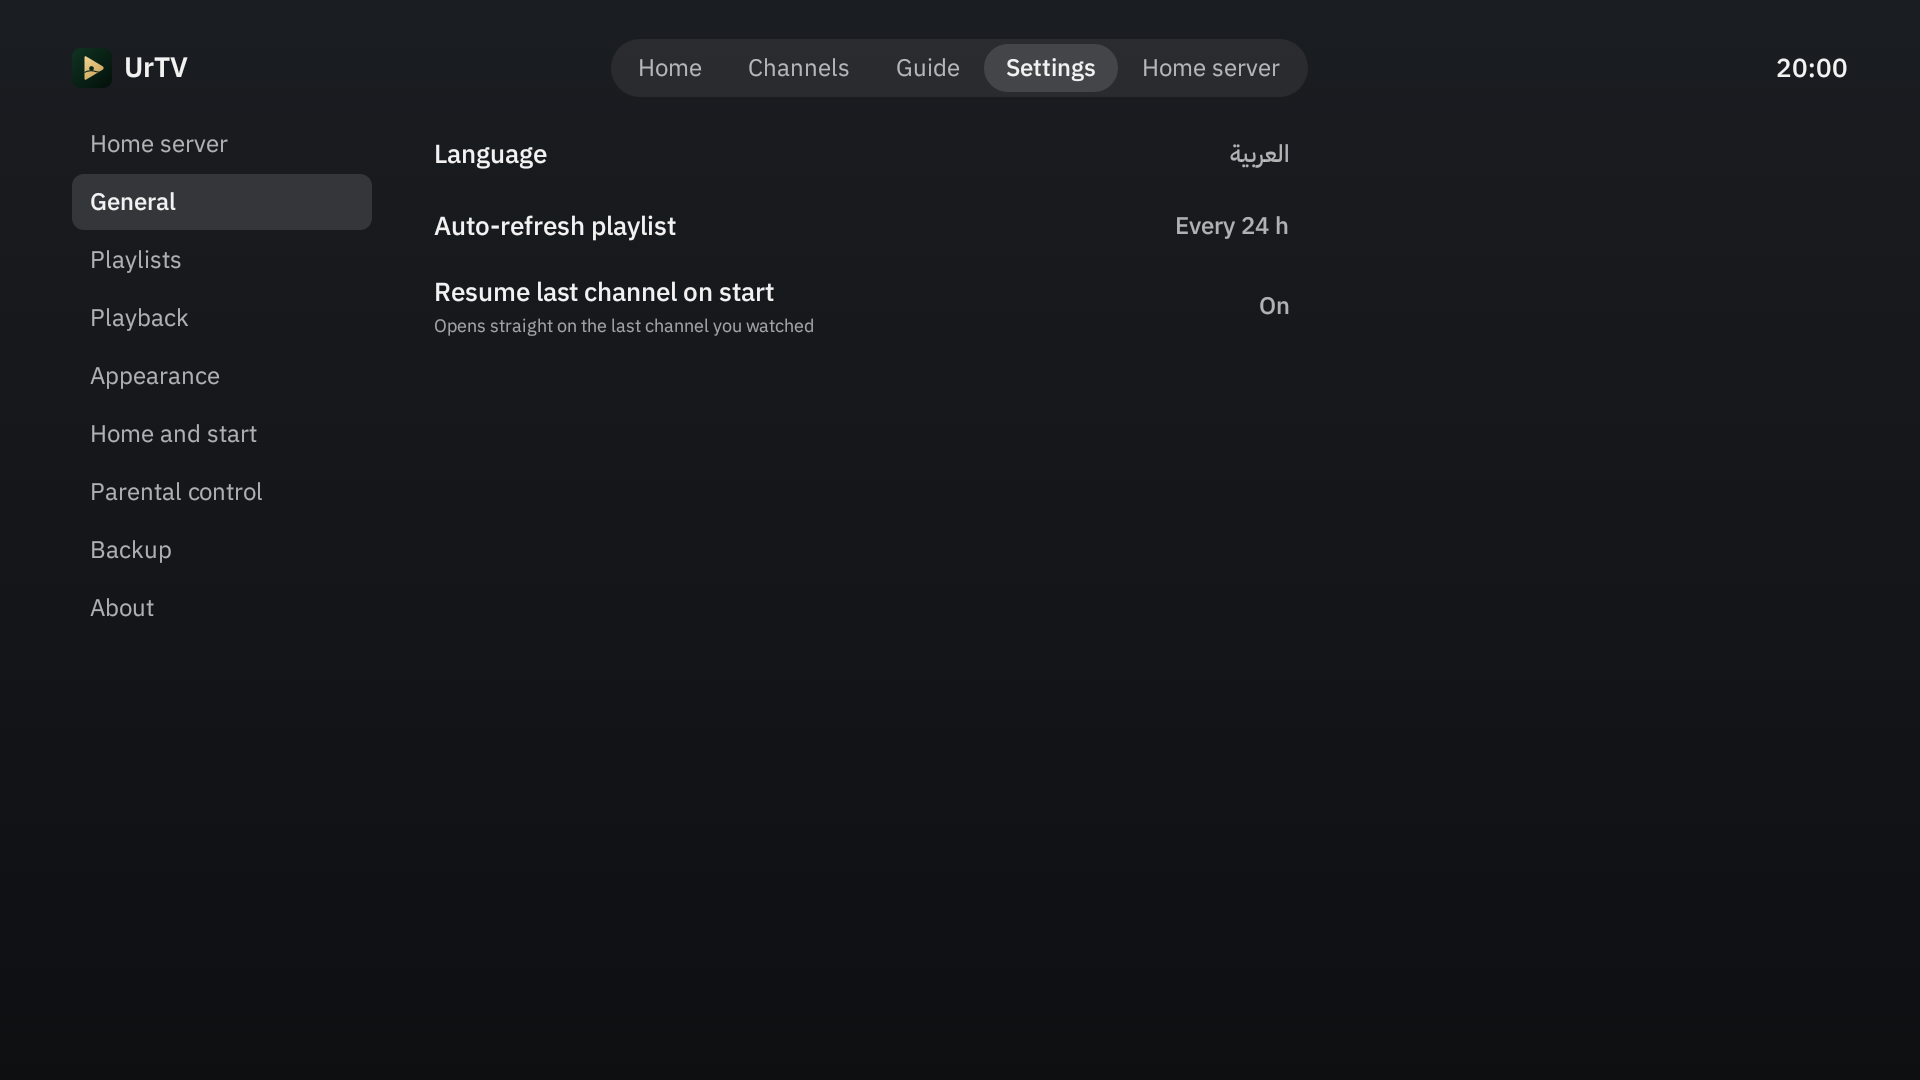
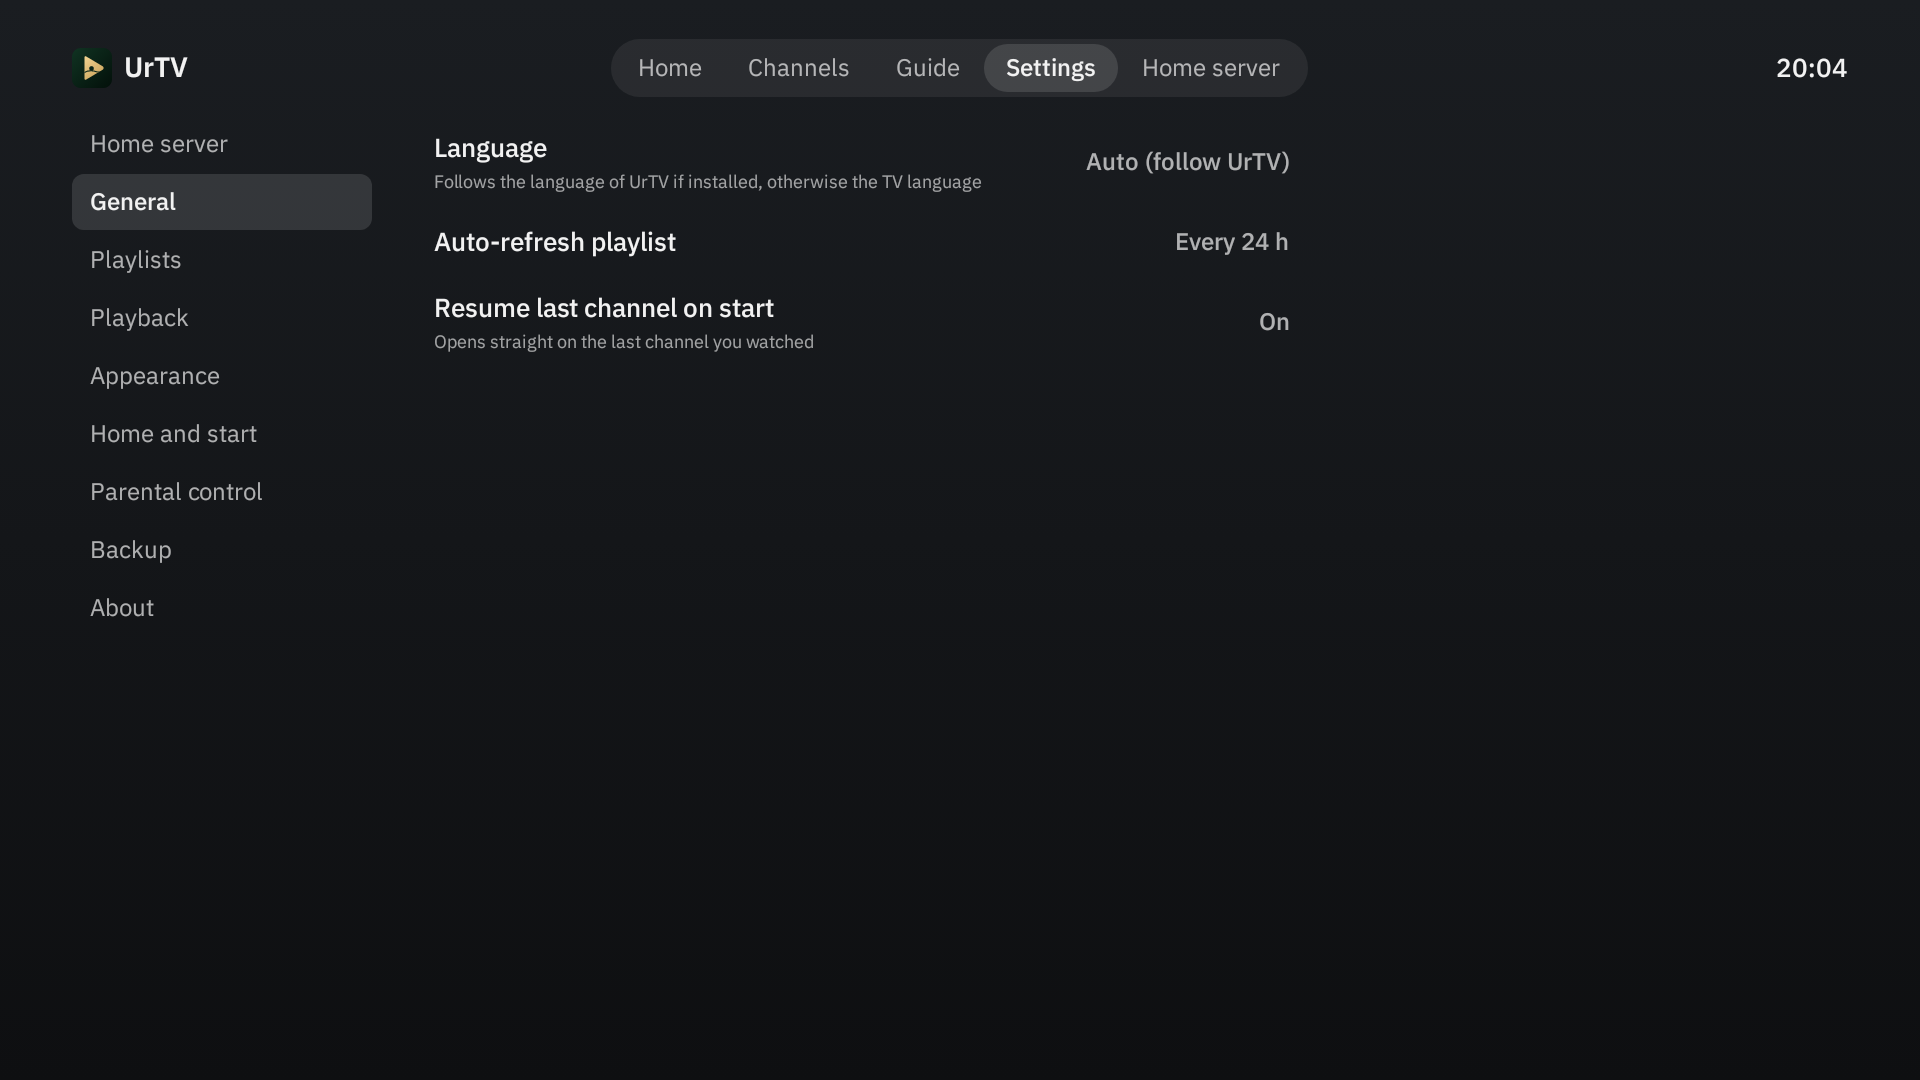
Language: Auto (follow UrTV via read-only provider, else TV language) / Arabic / English, manual always wins, re-check on resume, tests

diff --git a/app/src/main/kotlin/com/urtv/player/data/Store.kt b/app/src/main/kotlin/com/urtv/player/data/Store.kt
@@ -28,7 +28,7 @@ class Store(ctx: Context) {
     val lockedGroups: StateFlow<Set<String>> = _locked
     private val _active = MutableStateFlow(sp.getString("active", null))
     val activeId: StateFlow<String?> = _active
-    private val _lang = MutableStateFlow(sp.getString("lang", "ar")!!)
+    private val _lang = MutableStateFlow(sp.getString("lang", Language.AUTO)!!)
     val lang: StateFlow<String> = _lang
     private val _refreshH = MutableStateFlow(sp.getInt("refreshH", 24))
     val refreshHours: StateFlow<Int> = _refreshH
@@ -229,7 +229,7 @@ class Store(ctx: Context) {
         map("epgOff")?.forEach { (k, v) -> (v as? JsonPrimitive)?.intOrNull?.let { n -> val c = n.coerceIn(-720, 720); _offsets.value = _offsets.value + (k to c); e.putInt("epgoff_$k", c) } }
         map("lists")?.let { m -> saveListsMap(m.associate { (k, v) -> k to ((v as? JsonArray)?.mapNotNull { (it as? JsonPrimitive)?.content }?.take(5000)?.toSet() ?: emptySet()) }) }
         (o["start"] as? JsonPrimitive)?.content?.takeIf { it in setOf("home", "live", "guide", "movies", "series", "last") }?.let { _start.value = it; e.putString("start", it) }
-        (o["lang"] as? JsonPrimitive)?.content?.takeIf { it == "ar" || it == "en" }?.let { _lang.value = it; e.putString("lang", it) }
+        (o["lang"] as? JsonPrimitive)?.content?.takeIf { it == "ar" || it == "en" || it == Language.AUTO }?.let { e.apply(); setLang(it) }
         (o["refreshH"] as? JsonPrimitive)?.intOrNull?.takeIf { it in 0..168 }?.let { _refreshH.value = it; e.putInt("refreshH", it) }
         (o["buffer"] as? JsonPrimitive)?.content?.let { n -> BufferMode.entries.firstOrNull { it.name == n }?.let { _buffer.value = it; e.putString("buffer", it.name) } }
         (o["preview"] as? JsonPrimitive)?.booleanOrNull?.let { _preview.value = it; e.putBoolean("preview", it) }
@@ -247,11 +247,26 @@ class Store(ctx: Context) {
     }
 
     // ---- settings
-    fun setLang(v: String) { _lang.value = v; sp.edit().putString("lang", v).apply() }
+    /** Sets the choice (auto, ar, en) and the language to apply now; returns the language that will be used. */
+    fun setLang(v: String): String {
+        val c = if (v == "ar" || v == "en") v else Language.AUTO
+        _lang.value = c
+        val r = Language.resolve(c, sp.getString("urtvLang", null), Language.systemLanguage())
+        sp.edit().putString("lang", c).putString("resolvedLang", r).apply(); return r
+    }
+    /** The language the UI is shown in right now (read synchronously at activity start). */
+    fun resolvedLang(): String = sp.getString("resolvedLang", null) ?: Language.resolve(sp.getString("lang", Language.AUTO)!!, sp.getString("urtvLang", null), Language.systemLanguage())
+    /** Called when UrTV's language (or null: not installed) was read. Returns true when the UI language changed and the screen must be recreated. */
+    fun onUrtvLanguage(urtv: String?): Boolean {
+        sp.edit().apply { if (urtv == null) remove("urtvLang") else putString("urtvLang", urtv) }.apply()
+        val r = Language.resolve(_lang.value, urtv, Language.systemLanguage())
+        val changed = r != resolvedLang()
+        if (changed) sp.edit().putString("resolvedLang", r).apply()
+        return changed
+    }
     fun setRefreshHours(v: Int) { _refreshH.value = v; sp.edit().putInt("refreshH", v).apply() }
     fun setBuffer(v: BufferMode) { _buffer.value = v; sp.edit().putString("buffer", v.name).apply() }
     fun setResume(v: Boolean) { _resume.value = v; sp.edit().putBoolean("resume", v).apply() }
-    fun langNow(): String = sp.getString("lang", "ar")!!
 
     // ---- parental PIN: PBKDF2-HMAC-SHA256 with a random salt (the PIN is never stored) + lockout after repeated mistakes
     private fun hash(pin: String, salt: String): String {

diff --git a/app/src/main/kotlin/com/urtv/player/data/Language.kt b/app/src/main/kotlin/com/urtv/player/data/Language.kt
@@ -1,0 +1,32 @@
+package com.urtv.player.data
+
+import android.content.Context
+import android.net.Uri
+
+/**
+ * UI language policy. Choices: "auto" (follow the UrTV home app, else the TV's language), "ar", "en".
+ * A manual choice always wins. Pure decision logic lives in [resolve] (unit-tested).
+ */
+object Language {
+    const val AUTO = "auto"
+    /** UrTV exposes its language read-only through this provider (no permission needed, language only). */
+    const val URTV_URI = "content://sa.urtv.home.language/language"
+
+    fun resolve(choice: String, urtv: String?, system: String): String = when {
+        choice == "ar" || choice == "en" -> choice
+        urtv == "ar" || urtv == "en" -> urtv
+        system == "en" -> "en"
+        else -> "ar"                         // Arabic first: any other system language gets Arabic
+    }
+
+    fun next(choice: String) = when (choice) { AUTO -> "ar"; "ar" -> "en"; else -> AUTO }
+
+    fun normalize(raw: String?): String? = raw?.trim()?.lowercase()?.take(2)?.takeIf { it == "ar" || it == "en" }
+
+    fun systemLanguage(): String = android.content.res.Resources.getSystem().configuration.locales.let { if (it.isEmpty) "ar" else it[0].language }
+
+    /** UrTV's language if the UrTV home app is installed and exposes it; otherwise null. Call off the main thread. */
+    fun readUrtv(ctx: Context): String? = runCatching {
+        ctx.contentResolver.query(Uri.parse(URTV_URI), arrayOf("language"), null, null, null)?.use { c -> if (c.moveToFirst()) normalize(c.getString(0)) else null }
+    }.getOrNull()
+}

diff --git a/app/src/main/kotlin/com/urtv/player/MainActivity.kt b/app/src/main/kotlin/com/urtv/player/MainActivity.kt
@@ -15,11 +15,19 @@ import java.util.Locale
 
 class MainActivity : ComponentActivity() {
     override fun attachBaseContext(base: Context) {
-        val lang = base.getSharedPreferences("urtv", MODE_PRIVATE).getString("lang", "ar") ?: "ar"
+        val sp = base.getSharedPreferences("urtv", MODE_PRIVATE)
+        val lang = sp.getString("resolvedLang", null) ?: com.urtv.player.data.Language.resolve(sp.getString("lang", com.urtv.player.data.Language.AUTO) ?: "auto", sp.getString("urtvLang", null), com.urtv.player.data.Language.systemLanguage())
         val loc = Locale.forLanguageTag("$lang-u-nu-latn")   // Western digits in Arabic: clearer for channel numbers and times
         Locale.setDefault(loc)
         val cfg = Configuration(base.resources.configuration).apply { setLocale(loc); setLayoutDirection(loc) }
         super.attachBaseContext(base.createConfigurationContext(cfg))
+    }
+
+    override fun onResume() {
+        super.onResume()
+        // Auto language follows UrTV: re-check whenever we come back to the foreground (off the main thread).
+        val app = application as UrtvApp
+        Thread({ val u = com.urtv.player.data.Language.readUrtv(applicationContext); if (app.store.onUrtvLanguage(u)) runOnUiThread { recreate() } }, "lang-check").start()
     }
 
     override fun onCreate(savedInstanceState: Bundle?) {

diff --git a/app/src/main/kotlin/com/urtv/player/ui/Settings.kt b/app/src/main/kotlin/com/urtv/player/ui/Settings.kt
@@ -83,7 +83,7 @@ fun SettingsScreen(app: UrtvApp, onAdd: () -> Unit, onLanguage: () -> Unit, onMa
             when (section) {
                 Section.Server -> serverSettings(app, onAddServer) { removeServer = it }
                 Section.General -> {
-                    item { Setting(stringResource(R.string.set_language), if (lang == "ar") "العربية" else "English") { store.setLang(if (lang == "ar") "en" else "ar"); onLanguage() } }
+                    item { Setting(stringResource(R.string.set_language), when (lang) { "ar" -> "العربية"; "en" -> "English"; else -> stringResource(R.string.lang_auto) }, stringResource(R.string.set_language_hint)) { store.setLang(com.urtv.player.data.Language.next(lang)); onLanguage() } }
                     if (!homeOnly) item { Setting(stringResource(R.string.set_refresh), if (refresh == 0) stringResource(R.string.manual) else stringResource(R.string.every_hours, refresh)) { store.setRefreshHours(REFRESH[(REFRESH.indexOf(refresh) + 1) % REFRESH.size]) } }
                     if (!homeOnly) item { Setting(stringResource(R.string.set_resume), stringResource(if (resume) R.string.on else R.string.off), stringResource(R.string.set_resume_hint)) { store.setResume(!resume) } }
                 }

diff --git a/app/src/test/kotlin/com/urtv/player/LogicTest.kt b/app/src/test/kotlin/com/urtv/player/LogicTest.kt
@@ -71,3 +71,21 @@ class WatchItemTest {
         assertEquals(0f, w.copy(durMs = 0).fraction)
     }
 }
+
+class LanguageTest {
+    private val r = com.urtv.player.data.Language::resolve
+    @Test fun manualChoiceAlwaysWins() {
+        assertEquals("en", r("en", "ar", "ar")); assertEquals("ar", r("ar", "en", "en"))
+    }
+    @Test fun autoFollowsUrtvThenSystemThenArabic() {
+        assertEquals("en", r("auto", "en", "ar")); assertEquals("ar", r("auto", "ar", "en"))
+        assertEquals("en", r("auto", null, "en"), "UrTV not installed: system language")
+        assertEquals("ar", r("auto", null, "ar")); assertEquals("ar", r("auto", null, "fr"), "Arabic first for anything else")
+        assertEquals("en", r("auto", "xx", "en"), "an unknown value from the provider is ignored")
+    }
+    @Test fun cycleAndNormalise() {
+        val l = com.urtv.player.data.Language
+        assertEquals(listOf("ar", "en", "auto"), listOf(l.next("auto"), l.next("ar"), l.next("en")))
+        assertEquals("ar", l.normalize(" AR-SA ")); assertEquals("en", l.normalize("en")); assertEquals(null, l.normalize("fr")); assertEquals(null, l.normalize(null))
+    }
+}

diff --git a/app/src/test/kotlin/com/urtv/player/BackupTest.kt b/app/src/test/kotlin/com/urtv/player/BackupTest.kt
@@ -129,3 +129,18 @@ class ReminderTest {
         s.toggleReminder(Store.Reminder("b", now + 3_600_000, "Later", "Ch")); assertTrue(s.reminders.value.isEmpty(), "toggle removes")
     }
 }
+
+@RunWith(RobolectricTestRunner::class)
+@Config(sdk = [34], application = UrtvApp::class)
+class LanguageStoreTest {
+    @Test fun autoFollowsUrtvChangesAndManualOverrides() {
+        val s = ApplicationProvider.getApplicationContext<UrtvApp>().store
+        s.setLang("auto"); s.onUrtvLanguage("ar"); assertEquals("ar", s.resolvedLang())
+        assertTrue(s.onUrtvLanguage("en"), "UrTV switched to English: recreate"); assertEquals("en", s.resolvedLang())
+        assertFalse(s.onUrtvLanguage("en"), "no change, no recreate")
+        assertTrue(s.onUrtvLanguage("ar")); assertEquals("ar", s.resolvedLang())
+        assertEquals("en", s.setLang("en")); assertFalse(s.onUrtvLanguage("ar"), "manual choice wins over UrTV"); assertEquals("en", s.resolvedLang())
+        s.setLang("auto"); assertEquals("ar", s.resolvedLang(), "back to auto picks up UrTV's last language")
+        assertEquals("auto", s.lang.value)
+    }
+}
